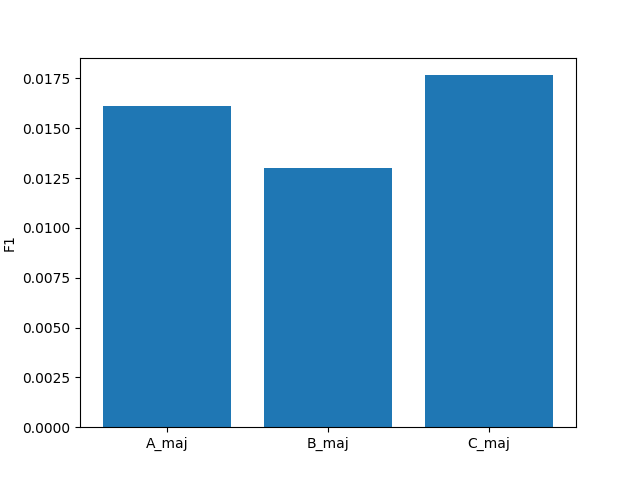
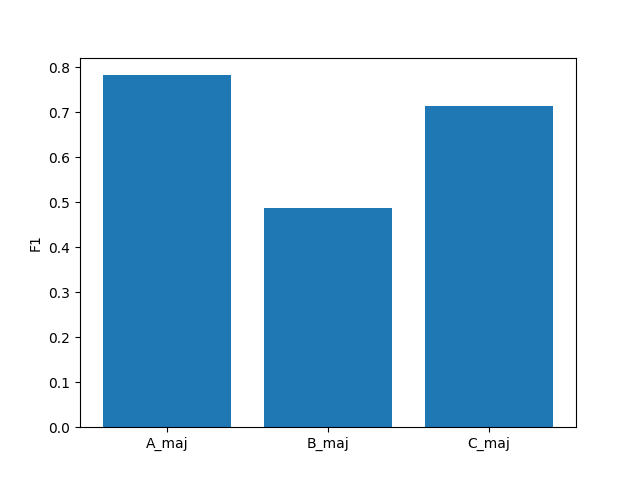
conf_mat and cross_model plots

diff --git a/evaluate.py b/evaluate.py
@@ -5,6 +5,7 @@ import time
 import numpy as np
 import matplotlib.pyplot as plt
 from hmm_model import ChordHMM
+from sklearn.metrics import confusion_matrix, ConfusionMatrixDisplay
 
 ALL_ERAS = ["piano_addon", "piano_baroque", "piano_classical", "piano_modern", "piano_romantic", "orchestra_addon", "orchestra_baroque", "orchestra_classical", "orchestra_modern", "orchestra_romantic"]
 CHORDS = ['A_aug', 'A_dim', 'A_dim_dim7', 'A_dim_min7', 'A_maj', 'A_maj_maj7', 'A_maj_min7', 'A_min', 'A_min_min7', 'Ab_dim', 'Ab_dim_min7', 'Ab_maj', 'Ab_maj_maj7', 'Ab_maj_min7', 'Ab_min', 'Ab_min_min7', 'B_aug', 'B_dim', 'B_dim_dim7', 'B_dim_min7', 'B_maj', 'B_maj_maj7', 'B_maj_min7', 'B_min', 'B_min_min7', 'Bb_aug', 'Bb_dim', 'Bb_dim_dim7', 'Bb_dim_min7', 'Bb_maj', 'Bb_maj_maj7', 'Bb_maj_min7', 'Bb_min', 'Bb_min_min7', 'C#_dim', 'C#_dim_min7', 'C#_maj', 'C#_maj_maj7', 'C#_maj_min7', 'C#_min', 'C#_min_min7', 'C_aug', 'C_dim', 'C_dim_min7', 'C_maj', 'C_maj_maj7', 'C_maj_min7', 'C_min', 'C_min_min7', 'D_dim', 'D_dim_min7', 'D_maj', 'D_maj_maj7', 'D_maj_min7', 'D_min', 'D_min_min7', 'E_dim', 'E_dim_min7', 'E_maj', 'E_maj_maj7', 'E_maj_min7', 'E_min', 'E_min_min7', 'Eb_dim', 'Eb_dim_min7', 'Eb_maj', 'Eb_maj_maj7', 'Eb_maj_min7', 'Eb_min', 'Eb_min_min7', 'F#_dim', 'F#_dim_min7', 'F#_maj', 'F#_maj_maj7', 'F#_maj_min7', 'F#_min', 'F#_min_min7', 'F_dim', 'F_dim_min7', 'F_maj', 'F_maj_maj7', 'F_maj_min7', 'F_min', 'F_min_min7', 'G_dim', 'G_dim_min7', 'G_maj', 'G_maj_maj7', 'G_maj_min7', 'G_min', 'G_min_min7', 'N']
@@ -173,9 +174,9 @@ def eval(model, subsets, chord_list = CHORDS, chord_map = None, eras = ALL_ERAS)
                     hits += 1
                 else:
                     misses += 1
-            j += 1
-            if j % 10 == 0:
-                print(j)
+            #j += 1
+            #if j % 10 == 0:
+            #    print(j)
 
 
     tot = hits+misses
@@ -326,6 +327,38 @@ def correctness_plot(model, target_track, t_start=0, t_end = None, chord_list = 
     else:
         plt.show()
 
+def conf_mat_plot(report, name = None, save = True):
+    disp = ConfusionMatrixDisplay(report["conf_mat"])
+    disp.plot(include_values = False)
+    if save:
+        if name:
+            plt.savefig("results/" + name + ".png")
+        else: 
+            plt.savefig("results/conf_mat.png")
+    else:
+        plt.show()
+
+def cross_model_plot(reports, target_metrics, chord_list = CHORDS, target_chords = CHORDS, name = None, save = True):
+    N_models = len(reports)
+    N_eras = len(reports[0])
+    for metric in target_metrics:
+        fig = np.zeros((N_models, N_eras))
+        for i in range(N_models):
+            for j in range(N_eras):
+                report = reports[i][j]
+                val = np.mean(report[metric])
+                fig[i][j] = val
+        disp = ConfusionMatrixDisplay(fig)
+        disp.plot()
+        if save:
+            if name:
+                plt.savefig("results/" + name + "_" + metric + ".png")
+            else: 
+                plt.savefig("results/cross_model_plot_"+metric+".png")
+        else:
+            plt.show()
+
+
 def main():
     ## TODO: Implement evaluation pipeline
     # this script should load trained HMM models from disk,
@@ -344,23 +377,37 @@ def main():
 
 
     t_before = time.time()
-    m1 = ChordHMM()
-    m1.load("models/hmm_all.pkl")
-    models = [m1]
-    
+
+    model_names = ["all"] + ALL_ERAS
+    models = []
+    for name in model_names:
+        m = ChordHMM()
+        m.load("models/hmm_" + name + ".pkl")
+        models.append(m)
+
     reports = []
 
     for i, m in enumerate(models):
-
-        report = eval(m, subsets, simple_chords, eras= ["piano_addon"])
-        report["name"] = "model_" + str(i)
-        reports.append(report)
+        report_group = []
+        for era in model_names:
+            if era == "all":
+                eras = ALL_ERAS
+            else:
+                eras = [era]
+            print("starting eval off", model_names[i] + "_on_" + era)
+            report = eval(m, subsets, simple_chords, eras=eras)
+            report["name"] = model_names[i] + "_on_" + era
+            report_group.append(report)
+        reports.append(report_group)
 
     random_track = random.choice(subsets["piano_addon"])
     prediction_plot(models[0], random_track, 10, 15, chord_list=simple_chords)
     correctness_plot(models[0], random_track, 10, 15, chord_list=simple_chords)
-    compare_plot(reports, ["TP", "P", "R"])
-    chord_compare(reports[0], ["TP", "P", "R"], ["A_maj", "B_maj", "C_maj"])
+    compare_plot(reports[0], ["TP", "P", "R"])
+    chord_compare(reports[0][0], ["TP", "P", "R"], ["A_maj", "B_maj", "C_maj"])
+    #cross_model_plot(reports, ["P", "F1"], chord_list=simple_chords)
+    conf_mat_plot(reports[0][0])
+    
 
 
 if __name__ == "__main__":
